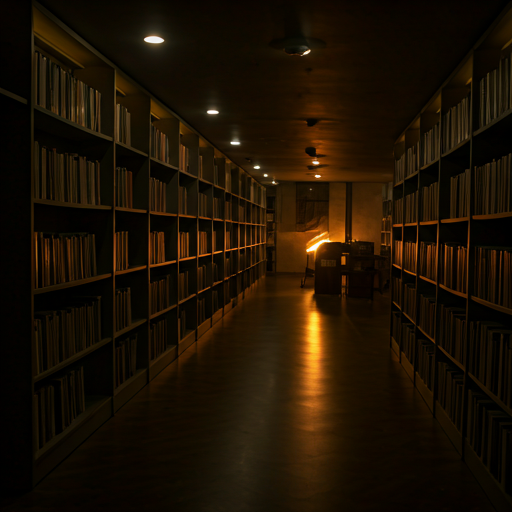
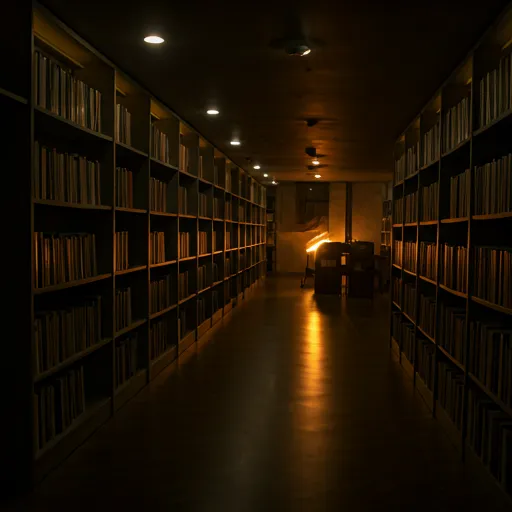
fix: CSP wildcard, кэширование скриншотов/изобр/видео в nginx, сжатие hero-bg 311→17KB

diff --git a/backend/src/server.ts b/backend/src/server.ts
@@ -126,7 +126,7 @@ const cspDirectives = {
     "https://api.telegram.org",
     "https://mc.yandex.ru",
     "wss://mc.yandex.ru",
-    "https://o*.ingest.sentry.io",
+    "https://*.ingest.sentry.io",
   ],
   workerSrc: ["'self'", "blob:"],
 };

diff --git a/index.html b/index.html
@@ -26,7 +26,7 @@
       font-src 'self' https://fonts.gstatic.com;
       img-src 'self' data: https: blob:;
       frame-src https://smartcaptcha.yandexcloud.net https://mc.yandex.ru;
-      connect-src 'self' https://smartcaptcha.yandexcloud.net https://api.telegram.org https://mc.yandex.ru wss://mc.yandex.ru https://o*.ingest.sentry.io;
+      connect-src 'self' https://smartcaptcha.yandexcloud.net https://api.telegram.org https://mc.yandex.ru wss://mc.yandex.ru https://*.ingest.sentry.io;
       worker-src 'self' blob:;
     ">
     <link rel="preconnect" href="https://fonts.googleapis.com" />